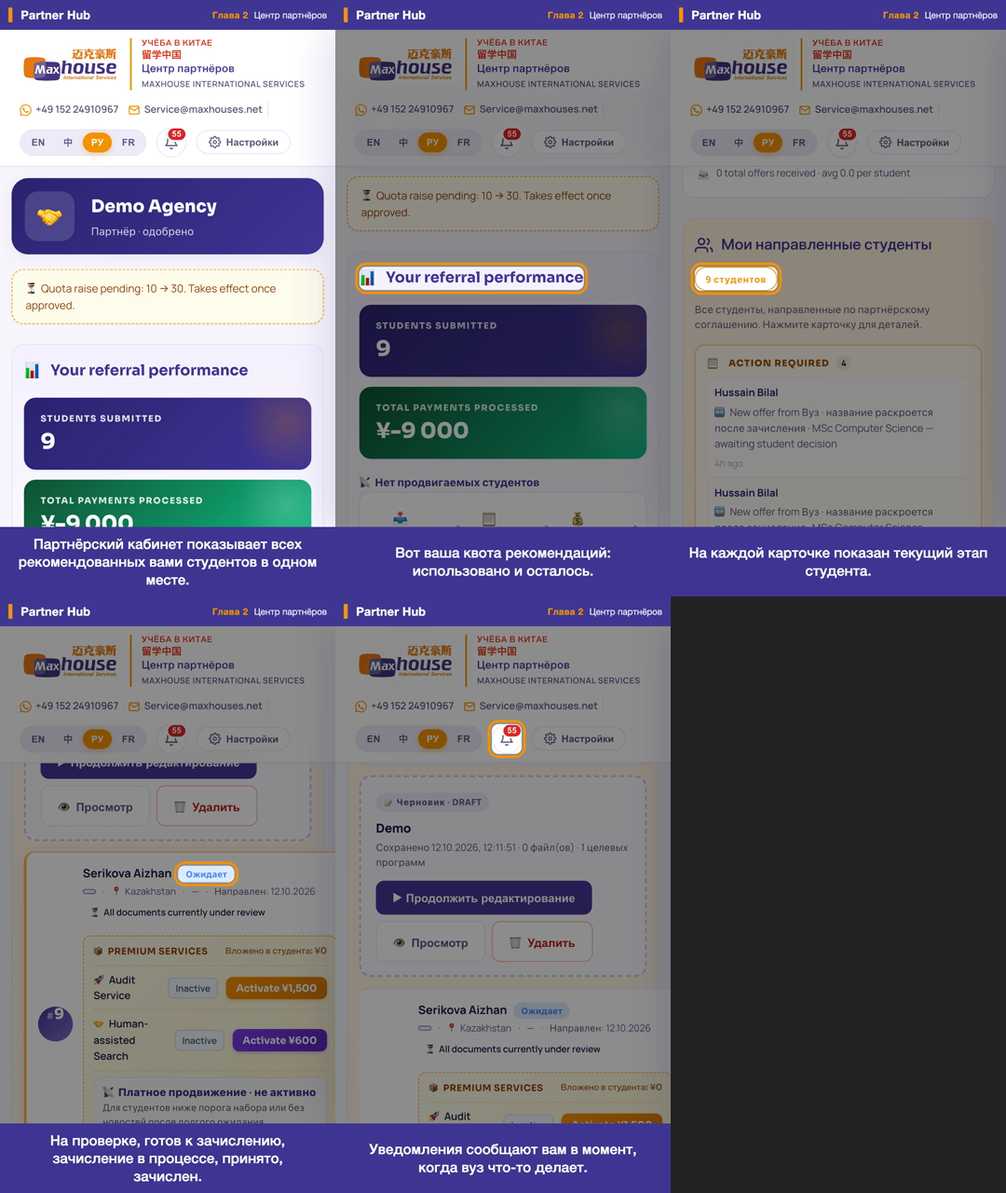
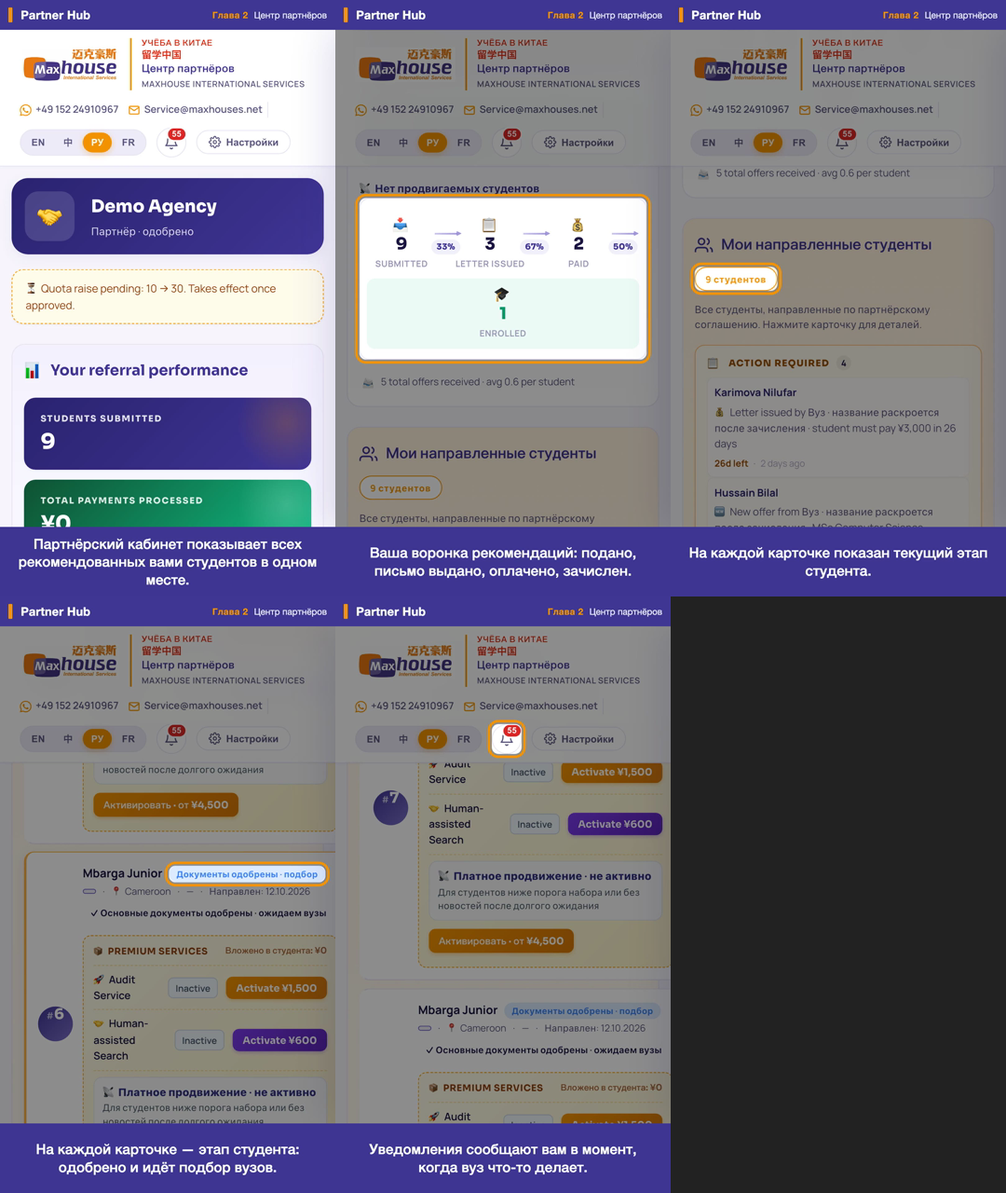
JOB-GP1 返工trip28: ch2 工作台章定版重录(review1 §三.1/.2) 四语联络表+四 REVIEW-shots 对账+决定账+PROGRESS
录制底座切 v185(线上同版)+offer/gate 等待;2-2 改述录取漏斗(工作台无名额显示),2-4 改按真「匹配中」gate_open 覆盖标签高亮(approved class 永不存在)。四语横竖重录重出,漏斗 9/3/2/1 无负数全0,¥0 保留。ch2 只读 verify 17/17。

diff --git a/JOB-GP1-03-PROGRESS.md b/JOB-GP1-03-PROGRESS.md
@@ -1,3 +1,18 @@
+最后一趟：2026-10-12 22:20 第28趟 返工：**做了**＝v185 上线后(RULING-20261012e)起做被缺陷2 卡住的定版重录第一章 ch2。①录制底座 rec.mjs 切 v184→v185(线上同版)+加 offCamera 等待(offers≥5 且 gate_open≥6, 因漏斗/「匹配中」标签靠异步 RPC 加载, 录早了定格错态 9/0/0/0 与「已提交·等待审核」)——惠及全部后续工作台章。②review1 §三.1(2-2)：只读实证工作台**无「名额已用/剩余」显示**→改高亮并描述屏上真有的录取漏斗(v185 真值 9→3→2→1·5 offer·人均0.6)。③§三.2(2-4)：实证 `.partner-student-status-approved` class **永不存在**(stage 列恒 NULL→class 恒 pending；真「材料已通过·匹配中」是 gate_open 覆盖标签, 6 张)→hl 改按真标签文本逐语言高亮、字幕改述真档。2-2/2-4 四语字幕+配音重做(shots-v1/captions-v1 三源同步, en/zh 逐字一致)。四语横竖重录 v185(8 片, 全 res OK+audio yes, no @gmail, hl 全 resolve)→合成→联络表(帧取字幕中点)。四语 land 联络表逐张亲验:漏斗无负数全0、2-4 框真「匹配中」、¥0 保留(§一.3)、无 beta、演示生无真 PII。§十一对账四语写入 REVIEW-*-shots.md。时长 EN27.66·ZH29.34·RU28.23·FR27.68s(land)。ch2 全程只读, 开工+收工 verify 17/17 PASS。v1 成片在 _v1/ 留底。**全片 bookend/film/trailer 本趟不重拼**(待全部工作台章完后统一拼)。留给业主产品问题2 条(工作台无名额显示 / 卡徽章色恒 pending 蓝)入账待写 SUMMARY。主仓库点名提交 JOB-GP1 不推；联络表+4 REVIEW+决定账+PROGRESS 推 mh-jobs。**下趟**＝下一含工作台章定版重录(ch1 1-8/ch3 3-1·3-8 节奏/ch5 5-1/ch7 7-4/ch8 横幅/ch10)或 OP-3/4/5 开场快剪(素材现已不阻塞)，一趟一章；全部完后四语过十一项重审+重拼全片→写 SUMMARY-GP1。**GP-1 未收官，勿据旧『收官』停工。**
+---
+# 第28趟详记：
+## 第 28 趟（2026-10-12 Mac mini 无人值守）· 录制底座切 v185 + ch2 工作台章定版重录
+- **接手核对**：git status 见 NEEDS_OWNER_DECISION.md 被删 + 新出 RULING-20261012d-funnel.md/-e-v185-live.md + 原请示单改名 -resolved-20261012-213841.md → 缺陷2 已裁(选A)、v185 已由业主卡1380 推送上线(线上 0eb0c78)、缺陷2 解除阻塞。loop-tail 查明 16:00 那趟两分钟即停＝误读旧「收官」(返工授权当时刚发未读)——本趟首行开工即改「返工进行中」、收工改完整「做了+下趟」，不复犯。开工 verify **17/17 PASS**。
+- **录制底座切 v185**（rec.mjs，jobs 工装非产品码）：FILE v184→v185；加 offer+gate offCamera 等待（见 D-28-1）。
+- **选题/范围**：按 RULING-20261012d §三.3 / -e「带工作台的章四语横竖定版重录」，挑第一章 ch2（工作台整屏、含 review1 §三.1/.2 两处字幕返工、只读不写库）。
+- **§三.1/.2 两处字幕返工 + 四语重录重出**：详见 DECISIONS D-28-1。只读实证用 `_probe-ch2-dom.mjs` / `_probe-ch2-sel.mjs`（均新建、只读）。
+- **自验**：四语 land 联络表逐张亲眼复验（2-2 漏斗 9/3/2/1 无负数全0、2-4 框真「匹配中」标签、字幕↔屏文一致、¥0 保留、无 beta、演示生无真 PII、页头平台 WhatsApp/Email 不遮）；§十一对账四语写入 REVIEW-*-shots.md；8 片真帧 hl 全 resolve、全片 no @gmail。
+- **DB**：ch2 只读，收工 verify **17/17 PASS 0 FAIL**。零置态/零写库。
+- **改了**（主仓库，不推）：rec/rec.mjs、rec/shots-v1.json、captions-v1.json、rec/tts-gp1.mjs、rec/_probe-ch2-dom.mjs(新)、rec/_probe-ch2-sel.mjs(新)、REVIEW-{en,zh,ru,fr}-shots.md、DECISIONS.md。成片/voice 不入 git（ch2 v1 在 _v1/ 留底，本趟覆盖 dist v2）；四语 ch2 联络表 + 四 REVIEW + 决定账 + PROGRESS 推 mh-jobs。
+- **下趟**：下一含工作台章定版重录或 OP-3/4/5 快剪，一趟一章；全部完后四语十一项重审 + 重拼全片 → 写 SUMMARY-GP1。GP-1 未收官。
+
+---
+# 上一趟（第27趟）首行存档：
 最后一趟：2026-10-12 20:18 第27趟 返工：**做了**＝缺陷2 业主已裁(RULING-20261012d 选 A·先修产品再录)→ 修中介端工作台「录取漏斗/人均 offer」对云端学生算错，partner v184→v185。根因：_getPartnerStats 云端分支读废弃列 students.stage(全库零写入恒 NULL)→漏斗全 0、offer 恒 0、与学生卡矛盾。改按卡面同口径数页面已加载的真 offer 数据 stu._offers(get_agent_student_offers RPC):offer 份数=行数/拿通知书=letter_uploaded_at/已付=letter_paid_at/录取完成=completed_at；avg 零生兜底 0.0；版本串+index.html 四件套齐 v185。全部 diff 仅 4 处逻辑块，TOTAL PAYMENTS PROCESSED 不动(§一.3)。闸全过：①探针算期望 9→3→2→1·offer5·人均0.6；②v185 真登录 guide_partner 四语截图漏斗全 9/3/2/1·5·0.6(shots/GP1/funnel/)；③回归 diff仅4块+四语数字遮罩后文本逐字相同+唯一 console.error 是 v184 同存 file:// 产物+0生态无NaN人均0.0。零 DB 写入，开工+收工 verify 17/17 PASS 0 FAIL。主仓库点名提交(JOB-GP1-PF 开头)**不推**；写 jobs/JOB-GP1/NEEDS_OWNER_DECISION.md「v185 漏斗修复已就绪，请 Claude 审核后由业主推送上线」复制推 mh-jobs(停下情形④)。**本趟结束等审**；v185 上线、线上确认后循环重开。**下趟**＝做 review1 被缺陷2 卡住的定版重录(ch1/2/3/5/7/8/10 带工作台的镜四语横竖、2-2/2-4/7-4/ch8 横幅/节奏 3-1/3-8/5-1、OP-3/4/5 开场快剪)，完后四语过十一项重审写 SUMMARY-GP1；**v185 上线前不录定版**。GP-1 未收官。
 ---
 # 第27趟详记：

diff --git a/JOB-GP1-decisions.md b/JOB-GP1-decisions.md
@@ -519,3 +519,17 @@
 - **DB**：全程零写入；开工+收工 verify 17/17 PASS 0 FAIL。
 - **推送纪律（裁决 §二.5/§三）**：主仓库点名提交（v185 文件 + index.html + jobs/JOB-GP1），说明以 `JOB-GP1-PF` 开头，**本机不推**；写 `NEEDS_OWNER_DECISION.md`（标题「v185 漏斗修复已就绪，请 Claude 审核后由业主推送上线」）复制推 mh-jobs，本趟结束等审（停下情形④）。推送上线由业主用卡执行。
 - **下趟（v185 上线、线上确认后循环重开）**：做 review1 里被缺陷2 卡住的定版重录——ch1/2/3/5/7/8/10 带工作台的镜四语横竖、2-2/2-4/7-4/ch8 横幅/节奏(3-1/3-8/5-1)、OP-3/4/5 开场快剪；完后四语过十一项重审写 SUMMARY-GP1。**v185 上线前不录定版**（免视频漏斗与线上不一致，裁决 §三.4）。
+
+## D-28-1
+**第 28 趟（2026-10-12 Mac mini 无人值守）· 录制底座切 v185 + ch2 工作台章定版重录（review1 §三.1/.2）**
+- **前置**：缺陷2 已由中介端 v185 修好并于 2026-10-12 21:38 上线（RULING-20261012d/e）。本趟起接做被缺陷2 卡住的定版重录；录制用本机 v185。
+- **录制底座改（rec.mjs，jobs 下工装，非产品码）**：①`FILE` v184→v185（线上同版）；②在登录后、逐镜前加 offCamera 阻塞等待 `_getPartnerStats().totalOffers≥5 且 _p130_STATS gate_open≥6`（timeout 75s），因这两处靠异步 RPC（get_agent_student_offers / get_agent_boost_stats）加载，录早了漏斗会定格 9/0/0/0、卡状态「匹配中」标签未载定格「已提交·等待审核」。此等待惠及所有含工作台的后续章。
+- **§三.1（2-2）**：只读实证 `_probe-ch2-dom.mjs`——工作台**无「名额已用/剩余」任何显示**（全工作台仅 ch8「Quota raise pending 10→30」横幅提 quota）。按 review1 §三.1「产品没有就最小改字幕述屏上真有的」→ 2-2 改为高亮并描述**录取漏斗**（v185 真值 9→3→2→1·5 offer·人均 0.6）。hl `.partner-stats-title,.partner-stats-hero-card`→`.partner-stats-funnel`；capEN「Here is your referral quota: used and remaining.」→「Your referral funnel: submitted, letter issued, paid, enrolled.」；capZH 同步；ru/fr 重译。
+- **§三.2（2-4）**：实证 `.partner-student-status-approved` **class 永不存在**——卡状态 class＝`partner-student-status-${s.status}`、`s.status=r.stage||'pending'`、`students.stage` 列全库恒 NULL（正是缺陷2 根因同一列）→ 9 张卡 class 恒 `-pending`；屏上「材料已通过·匹配中」是 `_p131T('matching')` **覆盖标签**（`_p130_STATS[sid].gate_open` 为真时显示，演示 gate_open=6）。原字幕列五档全不在屏。按 review1 §三.2「做不到依次框就最小改字幕述真档」→ hl 改按真标签文本逐语言高亮（`text=Documents approved · matching` / zh「材料已通过 · 匹配中」/ ru「Документы одобрены · подбор」/ fr「Documents validés · mise en relation」）；capEN「Under review, ready for offers, offer in progress, accepted, enrolled.」→「Each card shows its stage — approved and matching with schools.」；四语同步。
+- **配音/字幕源同步**：burned en/zh 读 shots-v1.json、ru/fr 读 captions-v1.json、TTS 读 captions-v1.json——三处对 2-2/2-4 同步改；en/zh 两文件逐字一致（已校）。tts-gp1.mjs 加 `--force-ids` 只重配 2-2/2-4（durations.json 仍整体重算完整）。
+- **重出/自验**：四语横竖重录（v185，8 片，全 res OK+audio yes，全片 no @gmail，2-2/2-4 hl 全 resolve）→ prod-ch 合成 → gp1-finish contact（帧取每镜字幕中点，review1）。时长：EN 27.66/27.66·ZH 29.34/29.35·RU 28.23/28.19·FR 27.68/27.62s。四语 land 联络表逐张亲眼复验：2-2 漏斗 9/3/2/1 无负数无全 0、2-4 框真「匹配中」标签、字幕↔屏文一致、¥0 TOTAL PAYMENTS PROCESSED 保留（§一.3）、演示生无真 PII、无 beta 控件、页头平台 WhatsApp/Email 不遮（D-14-3/D-15-1）。§十一对账四语写入 REVIEW-*-shots.md。
+- **DB**：ch2 全程只读，开工+收工 verify 17/17 PASS 0 FAIL。零置态/零写库。
+- **v1 留底**：ch2 v1 成片早在 `guide/dist/partner/_v1/` 留底（铁律10），本趟覆盖 dist 为 v2。**全片 bookend/film/trailer/segments 本趟不重拼**（仍含 ch2 v1）——待全部工作台章返工完后统一重拼（RULING-20261012d §三.3 末「做完后...写 SUMMARY」）。
+- **留给业主的产品问题（记入 SUMMARY）**：①中介端工作台无「名额已用/剩余」显示；②卡状态徽章色恒 pending 蓝（`students.stage` 列恒 NULL），即便标签已「材料已通过·匹配中」（gate_open 覆盖）——色与标签语义不一致，属产品 stage 列未回填历史问题。
+- **改了**（主仓库，点名提交 JOB-GP1，不推）：rec/rec.mjs、rec/shots-v1.json、captions-v1.json、rec/tts-gp1.mjs、rec/_probe-ch2-dom.mjs(新)、rec/_probe-ch2-sel.mjs(新)、REVIEW-{en,zh,ru,fr}-shots.md、DECISIONS.md。成片/voice 不入 git；四语 ch2 联络表 + 四 REVIEW + 决定账 + PROGRESS 推 mh-jobs。
+- **下趟**：接做下一含工作台章的定版重录（ch1 1-8 / ch3 3-1·3-8 节奏 / ch7 7-4 / ch8 横幅 / ch5 5-1 定版 / ch10），一趟一章；OP-3/4/5 开场快剪（素材 3-8/7-0/7-1 现已不阻塞）亦可做。全部完成后四语过十一项重审 + 重拼全片 → 写 SUMMARY-GP1。GP-1 未收官。

diff --git a/JOB-GP1-REVIEW-en-shots.md b/JOB-GP1-REVIEW-en-shots.md
@@ -51,3 +51,21 @@
 
 - 逐张亲眼复验（EN land+port b-roll 中帧 + 尾帧）：两份盲 offer、无校名（双盲守住）、无 beta/内测/test 控件、演示生 Hussain Bilal 无真 PII、标题条文字＝ EN OP-2 卡标题/ED-1 回顾串一字一致。专业名 "MSc Computer Science" 为产品动态串（D-18-4 已记账）。
 - OP-2 卡总时长 10.4s 不变 → 全片 land 427.9s / port 428.1s（见本趟 DECISIONS/PROGRESS）。
+
+## ch2 §三.1 / §三.2（工作台漏斗 + 卡状态徽章，返工第28趟 2026-10-12 · v185 上线后定版重录）
+前置：缺陷2（工作台录取漏斗/人均 offer 对云端学生全 0）已由中介端 v185 修好并于 2026-10-12 21:38 上线（RULING-20261012d/e）。本趟把录制底座 `rec.mjs` 从 v184 切到线上同版 v185，并对 ch2 工作台章定版重录（四语横竖）。另加录制底座 offCamera 阻塞等待：`_getPartnerStats().totalOffers≥5 且 _p130_STATS gate_open≥6`，确保含工作台的章背景漏斗＝线上真值、卡状态「匹配中」标签已载（否则录早了漏斗定格 9/0/0/0、卡标签定格「已提交·等待审核」）。
+
+- **§三.1（2-2）**：原字幕「Here is your referral quota: used and remaining.」。只读实证（`_probe-ch2-dom.mjs`）：工作台**没有任何「名额已用/剩余」显示**（全工作台仅 ch8 的「Quota raise pending: 10 → 30」横幅提到 quota）。按 review1 §三.1「产品没有这个显示，就把字幕最小改成画面真有的内容」——改为高亮并描述屏上真有的**录取漏斗**（也正是 v185 修好的那块）。
+- **§三.2（2-4）**：原字幕列五档「Under review, ready for offers, offer in progress, accepted, enrolled」，原 hl 选 `.partner-student-status-approved`。实证：该 class **永不存在**——卡状态 class＝`partner-student-status-${s.status}`，而 `s.status=r.stage||'pending'`、`students.stage` 列全库恒 NULL，故 9 张卡 class 恒 `-pending`；真正的「材料已通过·匹配中」是 `_p131T('matching')` **覆盖标签**（当 `_p130_STATS[sid].gate_open` 为真时显示，演示数据 6 张 gate_open）。屏上真有的两档＝3 张「Submitted · awaiting platform review」+ 6 张「Documents approved · matching」。按 review1 §三.2「做不到依次框五档就把字幕最小改成画面真有的阶段」——hl 改为按真标签文本逐语言高亮（`text=Documents approved · matching`），字幕改述该真档。
+
+| 镜 | 字幕原文（新/未改） | 高亮区 DOM 实际文字（从 v185 真帧 DOM 读） | 同一件事？ |
+|----|----------|---------------------|-----------|
+| 2-1 | Your Partner Hub shows every student you referred, in one place. | 工作台整屏：Partner Hub / Demo Agency / 统计面板 + 9 张推荐生卡（整屏 integral，无单点高亮） | 是 |
+| 2-2 | Your referral funnel: submitted, letter issued, paid, enrolled. | `.partner-stats-funnel`：SUBMITTED **9** → 33% → LETTER ISSUED **3** → 67% → PAID **2** → 50% → ENROLLED **1**（下方「5 total offers received · avg 0.6 per student」） | 是（字幕四段＝屏上漏斗四段，v185 真值） |
+| 2-3 | Each card carries the student's current stage. | `.partner-students-count`「9 students」（My referred students 区标题右侧计数药丸） | 是（指向推荐生列表） |
+| 2-4 | Each card shows its stage — approved and matching with schools. | `.partner-student-status`（Mbarga Junior 卡）「**Documents approved · matching**」；辅行「✓ Core documents approved · awaiting school matches」 | 是（"approved and matching"↔屏上同文字标签；6 张卡同档） |
+| 2-5 | Notifications tell you the moment a university acts. | `#stuNotifBell` 通知铃（角标 55）→ `openNotif` 开 `#stuNotifList`（≥4 条通知） | 是 |
+
+- 时长：land 27.66s / port 27.66s。8 片（四语横竖）全 res OK + audio yes。全片 DOM 扫描 **no @gmail**。
+- 逐张亲眼复验（EN land 联络表 + 2-2/2-4 原始帧）：2-2 漏斗 9/3/2/1 无负数无全 0；2-4 框住「Documents approved · matching」真标签；页头平台 WhatsApp/Email 不遮（D-14-3/D-15-1）；¥0 TOTAL PAYMENTS PROCESSED 保留（§一.3）；演示生 Mbarga Junior / Islam Rahim 无真 PII；无 beta/内测/test 控件。
+- **记入 SUMMARY「留给业主的产品问题」**：①中介端工作台无「名额已用/剩余」显示（故 2-2 改述漏斗）；②卡状态徽章颜色恒 pending 蓝（`students.stage` 列恒 NULL），即便标签已是「材料已通过·匹配中」（gate_open 覆盖），色与标签语义不一致——属产品层 stage 列未回填的历史问题，非本片可改。

diff --git a/JOB-GP1-REVIEW-ru-shots.md b/JOB-GP1-REVIEW-ru-shots.md
@@ -27,3 +27,16 @@ D-18-4：RU 界面里产品动态串回退成英文（PREMIUM SERVICES / Audit S
 
 - 亲眼复验（RU land b-roll 中帧）：两份盲 offer、无校名（双盲守住）、无 beta 控件、演示生无真 PII；界面俄文本地化（ПАРТНЁР·СТУДЕНТ / ВУЗЫ ЗАИНТЕРЕСОВАНЫ / ДОКУМЕНТЫ ОДОБРЕНЫ）；标题条＝ RU OP-2 卡标题/ED-1 回顾串一字一致；专业名英文回退（D-18-4）。
 - OP-2 卡 12.0s 不变 → 全片 land 455.1s / port 455.2s。
+
+## ch2 §三.1 / §三.2（工作台漏斗 + 卡状态徽章，返工第28趟 2026-10-12 · v185 上线后定版重录）
+缺陷2 已由 v185 修好上线；录制底座切 v185 + 加 offCamera 等待（offers≥5 且 gate_open≥6）。§三.1（2-2）：工作台无「名额已用/剩余」显示→改述屏上真有的录取漏斗。§三.2（2-4）：真标签「Документы одобрены · подбор」是 gate_open 覆盖标签（`.partner-student-status-approved` class 永不存在）→ hl 按真俄文标签文本高亮、字幕改述真档。详见 REVIEW-en-shots.md 同节。
+
+| 镜 | 字幕原文（新/未改） | 高亮区 DOM 实际文字（v185 真帧） | 同一件事？ |
+|----|----------|---------------------|-----------|
+| 2-1 | Партнёрский кабинет показывает всех рекомендованных вами студентов в одном месте. | 工作台整屏 + 9 张推荐生卡（整屏 integral） | 是 |
+| 2-2 | Ваша воронка рекомендаций: подано, письмо выдано, оплачено, зачислен. | `.partner-stats-funnel` 四段：**9** → 33% → **3** → 67% → **2** → 50% → **1**（下方 5 offer · 人均 0.6） | 是（漏斗四段＝屏上四段 9/3/2/1；段名俄文或英文回退 D-18-4） |
+| 2-3 | На каждой карточке показан текущий этап студента. | `.partner-students-count`「9 …」推荐生计数药丸 | 是 |
+| 2-4 | На каждой карточке — этап студента: одобрено и идёт подбор вузов. | `.partner-student-status`（Mbarga Junior 卡）「**Документы одобрены · подбор**」 | 是（字幕↔屏上同文字标签；6 张卡同档） |
+| 2-5 | Уведомления сообщают вам в момент, когда вуз что-то делает. | 通知铃（角标 55）→ 开通知面板（≥4 条） | 是 |
+
+- 时长：land 28.23s / port 28.19s。全片 no @gmail。亲眼复验（RU land 联络表）：漏斗 9/3/2/1 无负数全 0、2-4 框「Документы одобрены · подбор」、¥0 保留、演示生无真 PII、无 beta 控件；部分界面串英文回退（D-18-4）。

diff --git a/JOB-GP1-REVIEW-zh-shots.md b/JOB-GP1-REVIEW-zh-shots.md
@@ -36,3 +36,16 @@
 
 - 亲眼复验（ZH land+port b-roll 中帧）：两份盲 offer、无校名（双盲守住）、无 beta/内测控件、演示生无真 PII；界面中文本地化（合作伙伴面板·学生 / 录取意向 / 待决定 / 查看完整录取 / 添加个人备注）；标题条＝ ZH OP-2 卡标题/ED-1 回顾串一字一致；专业名 "MSc Computer Science" 产品动态串回退英文（D-18-4）。
 - OP-2 卡 9.5s 不变 → 全片 land 445.3s / port 444.4s。
+
+## ch2 §三.1 / §三.2（工作台漏斗 + 卡状态徽章，返工第28趟 2026-10-12 · v185 上线后定版重录）
+缺陷2 已由 v185 修好上线；录制底座切 v185 + 加 offCamera 等待（offers≥5 且 gate_open≥6）。§三.1（2-2）：工作台无「名额已用/剩余」显示→改述屏上真有的录取漏斗。§三.2（2-4）：`.partner-student-status-approved` class 永不存在（stage 列恒 NULL→class 恒 pending；真标签「材料已通过·匹配中」是 gate_open 覆盖标签，6 张）→ hl 改按真标签文本高亮、字幕改述真档。详见 REVIEW-en-shots.md 同节。
+
+| 镜 | 字幕原文（新/未改） | 高亮区 DOM 实际文字（v185 真帧） | 同一件事？ |
+|----|----------|---------------------|-----------|
+| 2-1 | 工作台把你推荐的每一位学生放在一处。 | 工作台整屏：合作机构·Demo Agency + 统计面板 + 9 张推荐生卡（整屏 integral） | 是 |
+| 2-2 | 你的推荐漏斗：已提交、已发录取通知书、已付款、已录取。 | `.partner-stats-funnel`：已提交 **9** → 33% → 已发录取通知书 **3** → 67% → 已付款 **2** → 50% → 已录取 **1**（下方「累计收到 5 个学校 offer · 平均每位学生 0.6 个」） | 是（漏斗四段＝屏上四段，v185 真值） |
+| 2-3 | 每张卡显示学生当前所处的阶段。 | `.partner-students-count`「9 位学生」 | 是 |
+| 2-4 | 每张卡显示所处阶段——材料已通过、正在与学校匹配。 | `.partner-student-status`（Mbarga Junior 卡）「**材料已通过 · 匹配中**」；辅行「✓ 核心材料已通过审核 · 等待学校匹配」 | 是（字幕↔屏上同文字标签；6 张卡同档） |
+| 2-5 | 学校一有动作，通知就到。 | 通知铃（角标 55）→ 开通知面板（≥4 条） | 是 |
+
+- 时长：land 29.34s / port 29.35s。中文字幕无乱码方块。全片 no @gmail。亲眼复验（ZH land 联络表）：漏斗 9/3/2/1 无负数全 0、2-4 框「材料已通过·匹配中」、¥0 TOTAL PAYMENTS PROCESSED 保留、演示生无真 PII、无 beta 控件。

diff --git a/JOB-GP1-REVIEW-fr-shots.md b/JOB-GP1-REVIEW-fr-shots.md
@@ -27,3 +27,16 @@ D-18-4：FR 界面里产品动态串回退成英文（PREMIUM SERVICES / Audit S
 
 - 亲眼复验（FR land b-roll 中帧）：两份盲 offer、无校名（双盲守住）、无 beta 控件、演示生无真 PII；界面法文本地化（TABLEAU PARTENAIRE·ÉTUDIANT / ÉCOLES INTÉRESSÉES / ACTION REQUISE / DOCS APPROUVÉS）；标题条＝ FR OP-2 卡标题/ED-1 回顾串一字一致；专业名英文回退（D-18-4）。
 - OP-2 卡 11.1s 不变 → 全片 land 446.0s / port 444.7s。
+
+## ch2 §三.1 / §三.2（工作台漏斗 + 卡状态徽章，返工第28趟 2026-10-12 · v185 上线后定版重录）
+缺陷2 已由 v185 修好上线；录制底座切 v185 + 加 offCamera 等待（offers≥5 且 gate_open≥6）。§三.1（2-2）：工作台无「名额已用/剩余」显示→改述屏上真有的录取漏斗。§三.2（2-4）：真标签「Documents validés · mise en relation」是 gate_open 覆盖标签（`.partner-student-status-approved` class 永不存在）→ hl 按真法文标签文本高亮、字幕改述真档。详见 REVIEW-en-shots.md 同节。
+
+| 镜 | 字幕原文（新/未改） | 高亮区 DOM 实际文字（v185 真帧） | 同一件事？ |
+|----|----------|---------------------|-----------|
+| 2-1 | Votre espace partenaire réunit tous les étudiants que vous avez recommandés au même endroit. | 工作台整屏 + 9 张推荐生卡（整屏 integral） | 是 |
+| 2-2 | Votre entonnoir de recommandations : soumis, lettre émise, payé, inscrit. | `.partner-stats-funnel` 四段：**9** → 33% → **3** → 67% → **2** → 50% → **1**（下方 5 offer · 人均 0.6） | 是（漏斗四段＝屏上四段 9/3/2/1；段名法文或英文回退 D-18-4） |
+| 2-3 | Chaque fiche indique l'étape actuelle de l'étudiant. | `.partner-students-count`「9 …」推荐生计数药丸 | 是 |
+| 2-4 | Chaque fiche affiche son étape : approuvé et en appariement avec les écoles. | `.partner-student-status`（Mbarga Junior 卡）「**Documents validés · mise en relation**」 | 是（字幕↔屏上同文字标签；6 张卡同档） |
+| 2-5 | Les notifications vous préviennent dès qu'une université agit. | 通知铃（角标 55）→ 开通知面板（≥4 条） | 是 |
+
+- 时长：land 27.68s / port 27.62s。全片 no @gmail。亲眼复验（FR land 联络表）：漏斗 9/3/2/1 无负数全 0、2-4 框「Documents validés · mise en relation」、¥0 保留、演示生无真 PII、无 beta 控件；部分界面串英文回退（D-18-4）。
